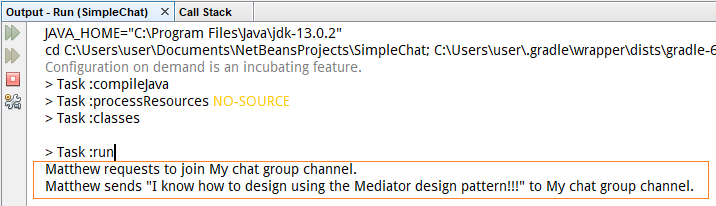
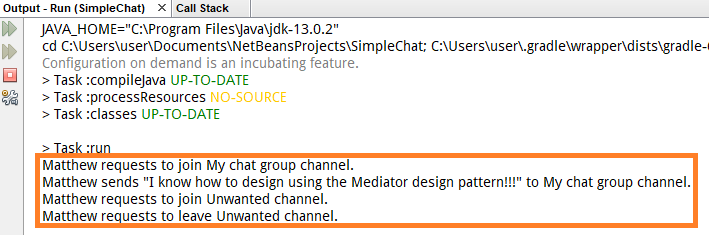
Added ClosingChannel.png and updated Readme.md

diff --git a/Readme.md b/Readme.md
@@ -38,9 +38,18 @@ You can do the same in code as follow:
 ```java
 matt.sendMessage("I know how to design using the Mediator design pattern!!!", "My chat group");
 ```
+Click on the `x` box next to the channel tab to close it. You can do the same by clicking on `Channel->Close Channel` in the GUI menu or hit `Ctrl-C`.
+
+![Closing a Channel](/doc/images/ClosingChannel.png)
+
+You can do the same in code as follow:
+```java
+matt.closeChannel("Unwanted");
+```
 Watch the output console for the information dumped by the `SpyingPublisher` when _join-channel_, _leave-channel_, and _send-message_ are performed.
 
 ![Output Given by SpyingPublisher](/doc/images/OutputFromSpyingPublisher.png)
+
 
 UML Class Diagram
 =================
